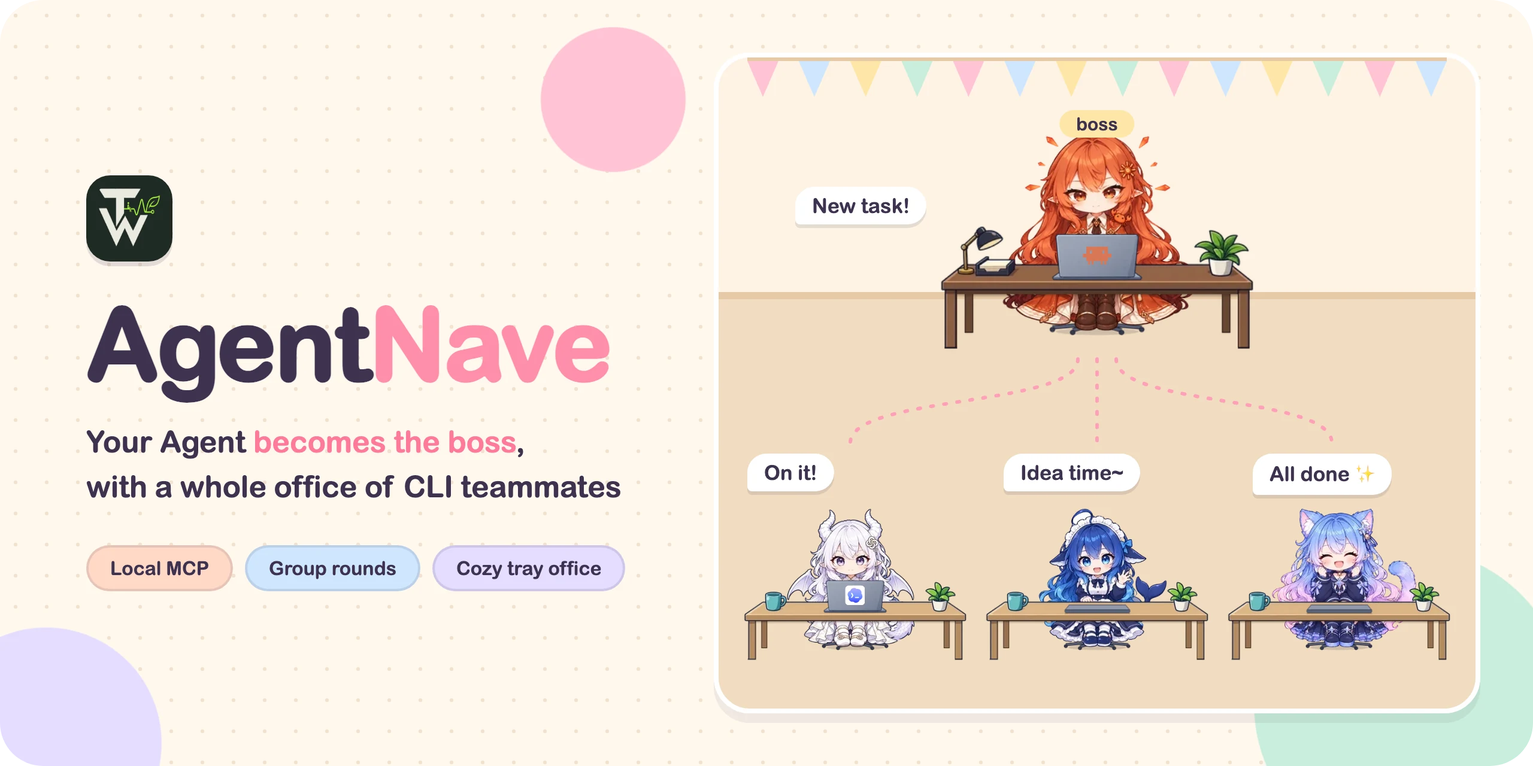
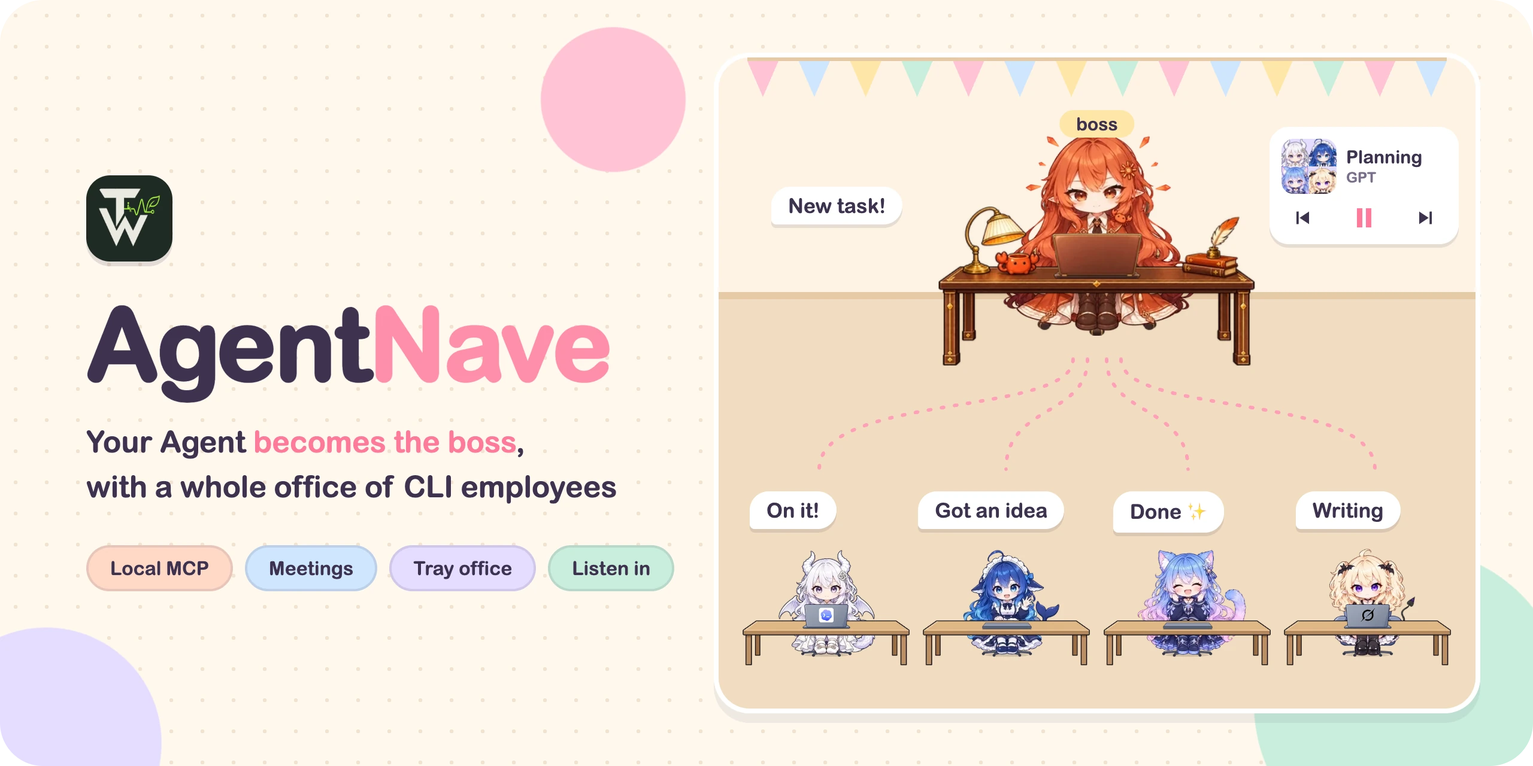
docs: 重做 README 横幅和演示，正文改成大白话 (#316)

diff --git a/docs/assets/readme-art.html b/docs/assets/readme-art.html
@@ -215,6 +215,9 @@
       .chip:nth-child(3) {
         background: var(--lilac);
       }
+      .chip:nth-child(4) {
+        background: var(--mint);
+      }
 
       .room {
         position: absolute;
@@ -265,7 +268,67 @@
         justify-content: space-between;
       }
       .row .scene {
-        width: 196px;
+        width: 148px;
+      }
+      /* the App's player, reading the meeting aloud */
+      .player {
+        position: absolute;
+        right: 14px;
+        top: 58px;
+        width: 158px;
+        padding: 10px;
+        border-radius: 16px;
+        background: #fff;
+        box-shadow: 0 3px 0 rgba(61, 51, 80, 0.12);
+        z-index: 6;
+      }
+      .player .now {
+        display: flex;
+        align-items: center;
+        gap: 8px;
+      }
+      .player .cover {
+        flex: none;
+        display: grid;
+        grid-template-columns: 1fr 1fr;
+        width: 46px;
+        height: 46px;
+        overflow: hidden;
+        border-radius: 10px;
+        background: var(--lilac);
+      }
+      .player .cover img {
+        width: 100%;
+        height: 100%;
+        display: block;
+      }
+      .player .title {
+        font-size: 15px;
+        line-height: 1.25;
+        white-space: nowrap;
+      }
+      .player .who {
+        font-size: 12px;
+        line-height: 1.3;
+        color: var(--soft);
+      }
+      .player .controls {
+        display: flex;
+        align-items: center;
+        justify-content: space-between;
+        margin-top: 8px;
+        padding: 0 8px;
+        color: var(--ink);
+      }
+      .player .controls svg {
+        width: 18px;
+        height: 18px;
+        fill: currentColor;
+      }
+      .player .controls .main {
+        width: 24px;
+        height: 24px;
+        color: #ff7a9c;
       }
       /* the boss hands work down to each desk */
       .routes {
@@ -398,11 +461,27 @@
 
       function scene(name, state, { cli, boss = false } = {}) {
         const open = state === "working";
+        const set = boss ? `-${cli}` : "";
         return `<div class="scene${boss ? " boss" : ""}">
-    <img class="l-chair" src="${ART}office/chair.webp">${fig(name, state)}
-    <img class="l-desk" src="${ART}office/${boss ? "boss-desk" : "desk"}.webp">
-    <img class="l-laptop" src="${ART}office/${open ? "laptop" : "laptop-closed"}.webp">
-    ${open && cli ? `<img class="lid" src="${ART}cli/${cli}.svg">` : ""}</div>`;
+    <img class="l-chair" src="${ART}office/${boss ? "boss-" : ""}chair${set}.webp">${fig(name, state)}
+    <img class="l-desk" src="${ART}office/${boss ? "boss-" : ""}desk${set}.webp">
+    <img class="l-laptop" src="${ART}office/${boss ? "boss-" : ""}laptop${open ? "" : "-closed"}${set}.webp">
+    ${open && cli && !boss ? `<img class="lid" src="${ART}cli/${cli}.svg">` : ""}</div>`;
+      }
+
+      function player() {
+        const heads = ["codex", "deepseek", "gemini", "grok"]
+          .map((name) => `<img src="${ART}h/${name}/idle.webp">`)
+          .join("");
+        return `<div class="player">
+    <div class="now"><div class="cover">${heads}</div>
+      <div><div class="title">${T("方案讨论", "Planning")}</div><div class="who">GPT</div></div></div>
+    <div class="controls">
+      <svg viewBox="0 0 24 24"><path d="M6 5h2.5v14H6zM20 5v14L9.5 12z"/></svg>
+      <svg class="main" viewBox="0 0 24 24"><path d="M6 4h4.5v16H6zM13.5 4H18v16h-4.5z"/></svg>
+      <svg viewBox="0 0 24 24"><path d="M15.5 5H18v14h-2.5zM4 5v14l10.5-7z"/></svg>
+    </div>
+  </div>`;
       }
 
       function banner() {
@@ -410,24 +489,27 @@
     <div class="left">
       <img class="mark" src="tim-wong-mark.png">
       <h1>Agent<span class="n">Nave</span></h1>
-      <p class="tag">${T("让你的 Agent <b>当上老板</b>，<br>带一屋子 CLI 小伙伴一起干活", "Your Agent <b>becomes the boss</b>,<br>with a whole office of CLI teammates")}</p>
+      <p class="tag">${T("让你的 Agent <b>当上 boss</b>，<br>带一屋子 CLI 员工一起干活", "Your Agent <b>becomes the boss</b>,<br>with a whole office of CLI employees")}</p>
       <div class="chips">
         <span class="chip">${T("本地 MCP", "Local MCP")}</span>
-        <span class="chip">${T("并联 · 串联协作", "Group rounds")}</span>
-        <span class="chip">${T("托盘小办公室", "Cozy tray office")}</span>
+        <span class="chip">${T("私聊和会议", "Meetings")}</span>
+        <span class="chip">${T("小办公室", "Tray office")}</span>
+        <span class="chip">${T("语音收听", "Listen in")}</span>
       </div>
     </div>
     <div class="room">
       <div class="bunting">${"<i></i>".repeat(14)}</div>
       <svg class="routes" viewBox="0 0 632 544" fill="none" stroke="#ff9fb8" stroke-width="3" stroke-linecap="round" stroke-dasharray="2 9">
-        <path d="M300 252 C300 292 110 282 110 322" /><path d="M316 252 V322" /><path d="M332 252 C332 292 512 282 512 322" />
+        <path d="M296 252 C296 300 84 280 84 344" /><path d="M308 252 C308 300 240 290 240 344" /><path d="M324 252 C324 300 392 290 392 344" /><path d="M336 252 C336 300 548 280 548 344" />
       </svg>
       <div class="boss-spot">${scene("claude", "working", { cli: "claude", boss: true })}<span class="plate">boss</span>
-        <span class="say" style="left:-112px;top:62px">${T("派活咯～", "New task!")}</span></div>
+        <span class="say" style="left:-132px;top:62px">${T("派活咯～", "New task!")}</span></div>
+      ${player()}
       <div class="row">
-        <div style="position:relative">${scene("codex", "working", { cli: "codex" })}<span class="say" style="left:8px;top:-34px">${T("收到！", "On it!")}</span></div>
-        <div style="position:relative">${scene("deepseek", "speaking")}<span class="say" style="left:20px;top:-34px">${T("我有个想法～", "Idea time~")}</span></div>
-        <div style="position:relative">${scene("gemini", "done")}<span class="say" style="left:26px;top:-34px">${T("搞定啦 ✨", "All done ✨")}</span></div>
+        <div style="position:relative">${scene("codex", "working", { cli: "codex" })}<span class="say" style="left:10px;top:-40px">${T("收到！", "On it!")}</span></div>
+        <div style="position:relative">${scene("deepseek", "speaking")}<span class="say" style="left:0;top:-40px">${T("我有个想法", "Got an idea")}</span></div>
+        <div style="position:relative">${scene("gemini", "done")}<span class="say" style="left:12px;top:-40px">${T("搞定啦 ✨", "Done ✨")}</span></div>
+        <div style="position:relative">${scene("grok", "working", { cli: "grok" })}<span class="say" style="left:14px;top:-40px">${T("在写了", "Writing")}</span></div>
       </div>
     </div>
   </div>`;

diff --git a/README.en.md b/README.en.md
@@ -1,5 +1,5 @@
 <p align="center">
-  <img src="docs/assets/readme-banner-en.webp" alt="AgentNave: your Agent becomes the boss, with a whole office of CLI teammates" width="100%">
+  <img src="docs/assets/readme-banner-en.webp" alt="AgentNave: your Agent becomes the boss, with a whole office of CLI employees" width="100%">
 </p>
 
 <p align="center">
@@ -18,17 +18,17 @@
 
 ## 🎬 Live demo
 
-<p align="center"><img src="docs/assets/readme-demo.gif" alt="AgentNave live demo: the boss sends seven CLI employees to the meeting room for two parallel rounds, then the boss sums up" width="100%"></p>
+<p align="center"><img src="docs/assets/readme-demo.gif" alt="AgentNave live demo: the boss brings six CLI employees into a meeting for two parallel rounds, then the boss sums up" width="100%"></p>
 
 ## ✨ Highlights
 
 ### 🧑💼 One boss, a whole office of CLIs
 
-12 hosts can be the boss and 8 CLIs can be employees, all driven through the same tools. Each CLI keeps its own login, configuration and native session, and the `session_id` it leaves lets you continue later.
+12 hosts can be the boss and 8 CLIs can be employees, all driven through the same tools. Each CLI keeps its own login and configuration, and you can pick up any past conversation later.
 
 ### 👯 Private tasks and meetings
 
-`start_agent` hands a task to one employee; the result goes back only to the boss. `run_round` brings 2–7 employees into a meeting: by default two parallel rounds, where everyone proposes on their own, then revises after reading all the answers, and the boss sums up. Add a serial round to finish in turns. With review on, the boss decides for each answer whether it is published or kept private; other seats never see a private answer.
+Send one employee a task and the result goes back only to the boss, or bring 2–7 employees into a meeting: by default two parallel rounds, where everyone proposes on their own, then revises after reading all the answers, and the boss sums up. Add a serial round to finish in turns. With review on, the boss decides for each answer whether it is published or kept private; other seats never see a private answer.
 
 ### 🏢 An office you can see
 
@@ -44,7 +44,7 @@ On macOS and Linux, Claude runs interactively by default, which saves subscripti
 
 ### 🧭 Seats and review
 
-Pick models for the Explorer and Worker seats in the App, with tiers for easy, hard and interface work, and the boss dispatches by difficulty. The optional [agentnave-review](skills/agentnave-review/SKILL.md) Skill is a risk-graded review gate staffed by read-only CLI seats, and its conclusions are kept as a record.
+Pick models for the Explorer and Worker seats in the App, with tiers for easy, hard and interface work, and the boss dispatches by difficulty. You can also add a [review before merging](skills/agentnave-review/SKILL.md): how much review a change gets depends on its risk, reviewers read but never edit, and their conclusions are kept as a record.
 
 ### 🤝 Continue in another chat
 
@@ -61,9 +61,9 @@ Connecting a host installs the Skills, and an employee has to be confirmed befor
 | **Boss** (connects to AgentNave and hands out work) | Claude desktop app, Claude Code, Codex CLI, CodeBuddy Code, WorkBuddy desktop app, Grok CLI, Antigravity, Pi, DeepSeek Harness, ZCode, Hermes, Grok Bot (Linux only) |
 | **Employee** (the CLI that gets the work)           | Claude Code, Codex CLI, CodeBuddy Code, Grok CLI, Antigravity CLI, Pi Coding Agent, DeepSeek Harness, ZCode                                   |
 
-A host never sends a single `start_agent` task to its own CLI, though its CLI can take a seat in a meeting.
+A host never sends a single task to its own CLI, though its CLI can take a seat in a meeting.
 
-Grok Bot connects only through an MCP stdio connector on Linux; integration through the macOS / Windows App is not provided. It is not a valid `AGENTNAVE_HOST` value and connects as an unknown host (`host_source: "unknown"`), so AgentNave cannot automatically read back its boss model or session file. See the [headless Linux host guide](docs/linux-headless.md) (in Chinese).
+Grok Bot connects only on Linux, not through the macOS or Windows App, and its model and sessions can't be read back. See the [headless Linux host guide](docs/linux-headless.md) (in Chinese).
 
 ## 🎀 Meet the team
 
@@ -108,60 +108,30 @@ the user through setup; config file details are in the [headless Linux host guid
 Task and meeting history lives in `~/.agentnave/` (or the directory set by `AGENTNAVE_DATA_DIR`). Each CLI's login,
 configuration and native sessions stay with that CLI.
 
-## 🧰 The MCP tools
-
-| Tool                | Purpose                                                                                   |
-| ------------------- | ----------------------------------------------------------------------------------------- |
-| `start_agent`       | Start one CLI task; returns an `invocation_id` immediately and saves the task             |
-| `run_round`         | Open a meeting of 2–7 seats, run a parallel or serial round, or post a host remark        |
-| `wait`              | Wait up to 240 seconds; `0` immediately receives ready results or returns progress |
-| `cancel`            | Stop a task or a round and return its final result                                        |
-| `decide_answers`    | With review on, publish each answer or keep it private                                    |
-| `list`              | List current handles and saved conversations                                              |
-| `read_conversation` | Read one conversation back as the App shows it                                            |
-| `list_members`      | Read the employee defaults set in the App, and one CLI's options                          |
-| `handover`          | Hand this chat's whole workspace to another boss chat, or list and take over waiting ones |
-| `answer_prompt`     | Answer a running CLI's permission, question or plan prompt for the user                   |
-
-Omitted model, effort and options use the employee defaults set in the App; a run still without an effort gets the
-CLI's own configured one. Both are listed in `defaults_applied`; explicit parameters win. The [agentnave-manager Skill](skills/agentnave-manager/SKILL.md) covers CLI choice and options, the
-[conversation guide](docs/studio.md) (in Chinese) covers review, host remarks and isolated seats, and
-[architecture](docs/context/architecture.md) lists the stable contracts and output limits.
-
 ## 🧭 Who decides what
 
 AgentNave only sends the work out, looks after the processes and brings the results back intact. How to split a task,
 whom to ask and whether to double-check stay with the boss, who already has the full context.
 
-| AgentNave                                  | The boss (calling Agent)                   |
-| ------------------------------------------ | ------------------------------------------ |
-| Provider command adapters                  | Planning and task decomposition            |
-| In-memory invocation lifecycle             | Provider and model selection               |
-| POSIX process groups / Windows Job Objects | Parallelism, review and synthesis          |
-| Normalized terminal results                | Retries, permissions and worktrees         |
-| Saved parallel and serial meeting rounds   | Who answers, in what order, and acceptance |
+| AgentNave                                | The boss                               |
+| ---------------------------------------- | -------------------------------------- |
+| Starts and stops each CLI                | Plans and splits the work              |
+| Sees tasks through, leaves no strays     | Picks who does it and with which model |
+| Brings the results back intact           | Decides how many at once and any review |
+| Keeps task and meeting records           | Decides whether to retry a failure     |
+| Runs the rounds of a meeting             | Who answers, in what order, how well   |
 
 By default AgentNave runs a dispatched CLI with its own automatic approval
 reviewer, or without approvals where it has none. When Claude runs interactively, the boss answers the prompts
 that still need one. The App can switch a CLI to full access. AgentNave has no
-human-facing CLI: `agentnave-mcp` is only the STDIO entry point an MCP host starts.
+command line for people: you just talk to the boss.
 
 <details>
-<summary>🔒 Lifecycle and security</summary>
+<summary>🔒 What happens to tasks, and security</summary>
 
-Invocation handles live only in the current MCP server process and expire seven days after completion. When the server
-stops, AgentNave makes a best-effort attempt to end processes still in the provider process tree. A restart cannot
-recover old handles, but saved meetings continue and a retained provider `session_id` can be passed to a new
-`start_agent` call.
+When the host closes, AgentNave stops any employee still running. The saved records stay, and saved meetings and past conversations can continue later.
 
-On macOS/Linux each provider runs under a dedicated POSIX process-group supervisor; on Windows under a kill-on-close
-Job Object. Windows providers are created suspended, assigned to the Job Object, and only then resumed, so descendants
-cannot start outside the owned process tree.
-
-**AgentNave is not a sandbox.** On POSIX, a same-user provider with command permission can deliberately daemonize,
-kill its supervisor or otherwise escape process-group cleanup. Windows Job Objects provide tree ownership but do not
-isolate the provider from the user account or the rest of the machine. Provider-native permissions remain the
-security boundary; use OS-level isolation when adversarial containment is required.
+**AgentNave is not a sandbox.** It looks after processes, and what an employee can do depends on each CLI's own permission settings. When you need strict isolation, use isolation at the operating-system level.
 
 </details>
 

diff --git a/README.md b/README.md
@@ -1,5 +1,5 @@
 <p align="center">
-  <img src="docs/assets/readme-banner-zh.webp" alt="AgentNave：让你的 Agent 当上老板，带一屋子 CLI 小伙伴一起干活" width="100%">
+  <img src="docs/assets/readme-banner-zh.webp" alt="AgentNave：让你的 Agent 当上 boss，带一屋子 CLI 员工一起干活" width="100%">
 </p>
 
 <p align="center">
@@ -18,17 +18,17 @@
 
 ## 🎬 实机演示
 
-<p align="center"><img src="docs/assets/readme-demo.gif" alt="AgentNave 实机演示：boss 派出 7 个 CLI 员工，在会议室里开两轮并联，最后由 boss 总结" width="100%"></p>
+<p align="center"><img src="docs/assets/readme-demo.gif" alt="AgentNave 实机演示：boss 请 6 个 CLI 员工开会，在会议室里开两轮并联，最后由 boss 总结" width="100%"></p>
 
 ## ✨ 几大特点
 
 ### 🧑💼 一个 boss，一屋子 CLI
 
-12 种宿主能当 boss，8 种 CLI 能当员工，派活用的是同一套工具。每个 CLI 继续用自己的登录、配置和原生会话，留下的 `session_id` 之后还能接着聊。
+12 种宿主能当 boss，8 种 CLI 能当员工，派活用的是同一套工具。每个 CLI 继续用自己的登录和配置，聊过的会话之后还能接着聊。
 
 ### 👯 私聊和会议
 
-`start_agent` 派一位员工，结果只回给 boss。`run_round` 请 2–7 位员工开会：默认两轮并联，第一轮各自给方案，第二轮看过大家的回答再补充，最后由 boss 总结；想接力收尾就加一轮串联。开了审核，每条回答由 boss 决定公开还是留作私聊，不公开的回答其他席位看不到。
+可以单独派一位员工，结果只回给 boss；也可以请 2–7 位员工开会：默认两轮并联，第一轮各自给方案，第二轮看过大家的回答再补充，最后由 boss 总结；想接力收尾就加一轮串联。开了审核，每条回答由 boss 决定公开还是留作私聊，不公开的回答其他席位看不到。
 
 ### 🏢 看得见的小办公室
 
@@ -44,7 +44,7 @@
 
 ### 🧭 工位和评审
 
-在 App 里给 Explorer、Worker 工位选好模型，简单、困难和界面任务各有档位，boss 按任务难度派活。可选的 [agentnave-review](skills/agentnave-review/SKILL.md) Skill 是按风险分级的评审门，由只读的 CLI 工位评审，结论留作记录。
+在 App 里给 Explorer、Worker 工位选好模型，简单、困难和界面任务各有档位，boss 按任务难度派活。还可以加一道[合并前评审](skills/agentnave-review/SKILL.md)：按风险大小决定派谁来看，评审的员工只读不改，结论留作记录。
 
 ### 🤝 换个聊天接着干
 
@@ -61,9 +61,9 @@
 | **boss**（接入 AgentNave、负责派活） | Claude 桌面端、Claude Code、Codex CLI、CodeBuddy Code、WorkBuddy 桌面端、Grok CLI、Antigravity、Pi、DeepSeek Harness、ZCode、Hermes、Grok Bot（仅 Linux） |
 | **员工**（被派活的 CLI）          | Claude Code、Codex CLI、CodeBuddy Code、Grok CLI、Antigravity CLI、Pi Coding Agent、DeepSeek Harness、ZCode                         |
 
-宿主不会用 `start_agent` 把单个任务派给自己的 CLI，但会议里可以有它的席位。
+宿主不会把单个任务派给自己的 CLI，但会议里可以有它的席位。
 
-Grok Bot 仅通过 Linux 上的 MCP stdio 连接器接入，不提供 macOS / Windows App 接入。它不在 `AGENTNAVE_HOST` 的取值范围内，以未知宿主身份连接（`host_source: "unknown"`），无法自动回读 boss 模型与会话文件，详见[无头 Linux 宿主指引](docs/linux-headless.md)。
+Grok Bot 只能在 Linux 上接入，不支持 macOS 和 Windows App，也看不到它的模型和会话记录，详见[无头 Linux 宿主指引](docs/linux-headless.md)。
 
 ## 🎀 员工图鉴
 
@@ -102,52 +102,27 @@ uv tool install --python 3.12 "git+https://github.com/TimWongUp/agentnave.git@v1
 
 任务和会议的历史保存在 `~/.agentnave/`（也可以用 `AGENTNAVE_DATA_DIR` 指定别的目录）。各 CLI 的登录、配置和原生会话仍归 CLI 自己管。
 
-## 🧰 MCP 工具一览
-
-| 工具                | 用途                                                                 |
-| ------------------- | -------------------------------------------------------------------- |
-| `start_agent`       | 派一个 CLI 任务，立即返回 `invocation_id`，任务会自动保存            |
-| `run_round`         | 开一场 2–7 席的会议、跑一轮并联或串联，或者以主持人身份发言          |
-| `wait`              | 默认最多等 240 秒，任一任务或轮次就绪即返回；`0` 即时收件或查看进展   |
-| `cancel`            | 停止任务或轮次，返回它的最终结果                                     |
-| `decide_answers`    | 开了审核时，逐条决定回答公开还是留作私聊                             |
-| `list`              | 列出当前句柄和已保存的对话                                           |
-| `read_conversation` | 按 App 里看到的样子读回一段对话                                      |
-| `list_members`      | 读取 App 里设定的员工默认值，以及某个 CLI 支持的参数                 |
-| `handover`          | 把本聊天的整个工作区交给另一个boss聊天，或列出、认领等待接手的工作区 |
-| `answer_prompt`     | 代用户回答运行中 CLI 弹出的权限框、提问框或计划确认                  |
-
-没传的 model、effort 和 options 会套用 App 里的员工默认值，仍没有档位时按 CLI 自身设置的档位传入；回执的 `defaults_applied` 会写明补了哪些；显式参数优先。
-CLI 选择与参数见 [agentnave-manager Skill](skills/agentnave-manager/SKILL.md)，审核、主持人发言和隔离席位见[会话指南](docs/studio.md)，
-稳定接口与输出上限见[架构说明](docs/context/architecture.md)。
-
 ## 🧭 分工：AgentNave 管什么
 
-AgentNave 只负责把活派出去、管好进程、把结果原样带回来。怎么拆任务、找谁、要不要复核，都由boss来定，因为完整的上下文在boss手里。
+AgentNave 只负责把活派出去、管好进程、把结果原样带回来。怎么拆任务、找谁、要不要复核，都由 boss 来定，因为完整的上下文在 boss 手里。
 
-| AgentNave                         | boss（调用方 Agent）           |
-| --------------------------------- | ------------------------------ |
-| 各 CLI 的命令适配                 | 规划和拆分任务                 |
-| 内存中的调用生命周期              | 选 CLI、选模型                 |
-| POSIX 进程组 / Windows Job Object | 并行度、复核与综合             |
-| 统一格式的终态结果                | 重试、权限和 worktree          |
-| 保存的并联／串联会议轮次          | 谁来答、按什么顺序、答得行不行 |
+| AgentNave                | boss                           |
+| ------------------------ | ------------------------------ |
+| 启动和停止各家 CLI       | 规划和拆分任务                 |
+| 盯着任务跑完，不留残余进程 | 选谁来做、用什么模型           |
+| 把结果原样带回来         | 同时派几位、要不要复核         |
+| 保存任务和会议记录       | 失败了要不要重试               |
+| 主持会议的轮次           | 谁来答、按什么顺序、答得行不行 |
 
 AgentNave 默认让派出去的 CLI 用自带的自动审批；CLI 没有自动审批时就直接放开。Claude 以交互模式运行时，仍要确认的弹框由 boss 代答。在 App 里也可以把某个 CLI 改成完全放开。
-AgentNave 没有给人用的命令行，`agentnave-mcp` 只是 MCP 宿主启动它用的 STDIO 入口。
+AgentNave 没有给人用的命令行，你只需要跟 boss 说话。
 
 <details>
-<summary>🔒 生命周期与安全</summary>
+<summary>🔒 任务的去留与安全</summary>
 
-调用句柄只存在于当前 MCP 服务进程里，完成七天后失效。服务停止时，AgentNave 会尽力结束仍留在 Provider 进程树里的进程。
-重启后找不回旧句柄，但保存的会议可以继续；留下的 Provider `session_id` 也可以传给新的 `start_agent` 接着用。
+宿主关闭时，AgentNave 会停掉还在跑的员工，已保存的记录还在，保存的会议和聊过的会话之后都能继续。
 
-在 macOS／Linux 上，AgentNave 给每个 Provider 配一个专用的 POSIX 进程组 supervisor；在 Windows 上用 kill-on-close 的 Job Object：
-Provider 以挂起状态创建，先加入 Job Object 再恢复运行，子孙进程就不会跑到受管进程树之外。
-
-**AgentNave 不是沙箱。** 在 POSIX 上，有命令权限的同用户 Provider 可以主动脱离守护、杀掉 supervisor，或用别的方式逃出进程组清理。
-Windows Job Object 只管进程树归属，不能把 Provider 和用户账户或机器的其余部分隔离开。真正的安全边界是各 Provider 自己的权限设置；
-需要对抗性隔离时，请使用操作系统级别的隔离。
+**AgentNave 不是沙箱。** 它只负责管好进程，员工能做什么取决于各 CLI 自己的权限设置。需要严格隔离时，请用操作系统级别的隔离。
 
 </details>
 

diff --git a/docs/assets/README.md b/docs/assets/README.md
@@ -6,8 +6,10 @@ This directory contains the project-local assets used by the AgentNave README.
   office props from `apps/tray/ui/art/` the way the App does; `?view=banner|cast&lang=zh|en` picks the image.
 - `readme-banner-zh.webp`, `readme-banner-en.webp` — rendered 1280×640 README banners (at 2×).
 - `readme-cast-zh.webp`, `readme-cast-en.webp` — rendered cast sheets of the office characters (at 2×).
-- `readme-demo.gif` — time-lapse of the whole tray App window during a real meeting: seven CLI
-  teammates answer two parallel rounds, then the boss sums up.
+- `readme-demo.gif` — time-lapse of the whole tray App window during a real meeting: six CLI
+  employees answer two parallel rounds, then the boss sums up. Recorded on an empty
+  `AGENTNAVE_DATA_DIR`, so no real workspace shows. Keep the window uncovered while recording:
+  WebKit stops refreshing a covered page.
 - `agentnave-banner.svg`, `agentnave-banner.png` — the previous banner, no longer referenced.
 - `tim-wong-mark.png` — project-local copy of the canonical personal brand mark.
 
